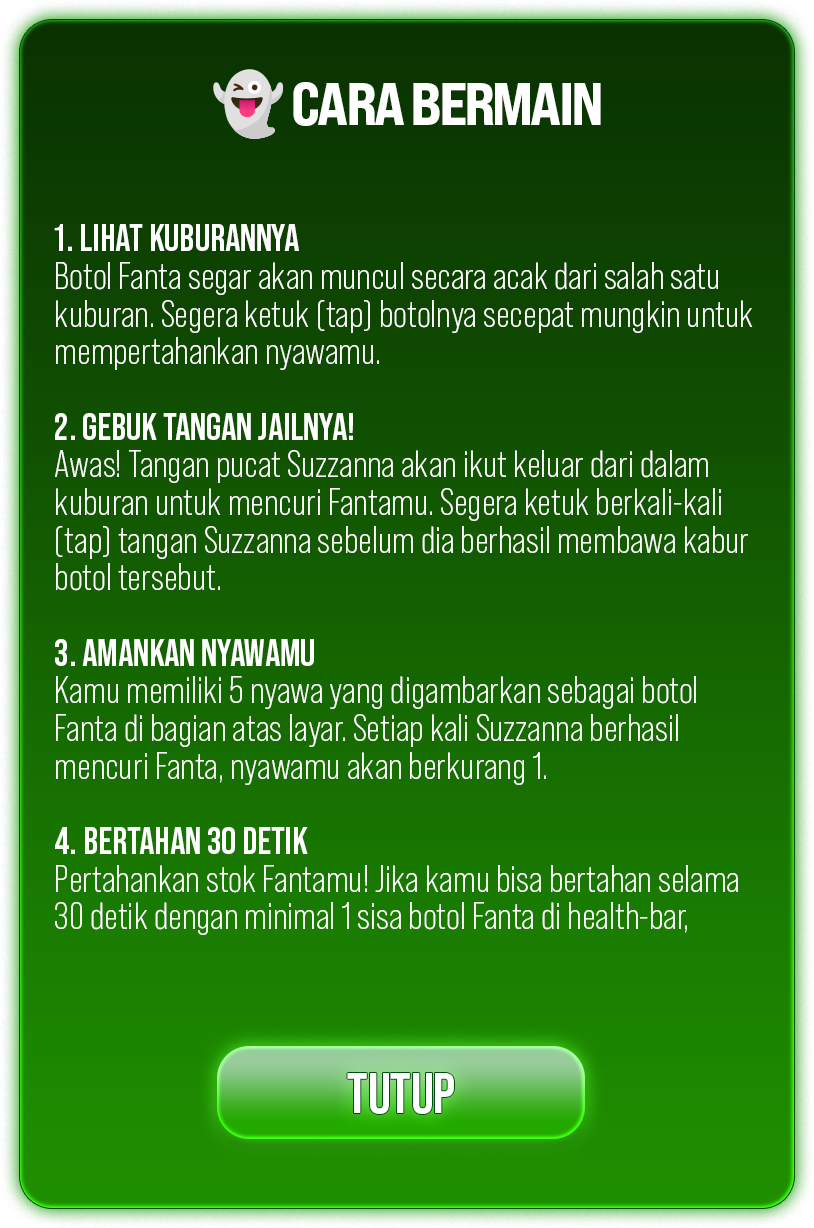
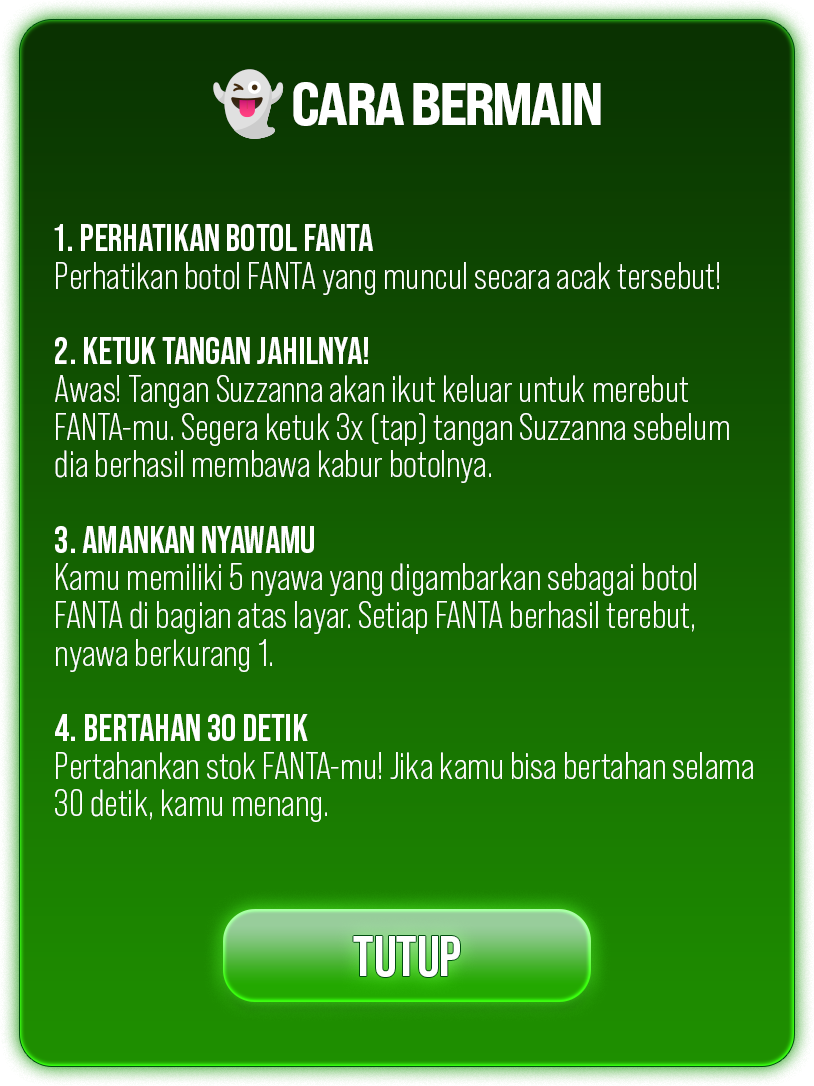
Revisi text popup Cara Bermain
Artwork baru lebih pendek (814x1086, sebelumnya 814x1228), jadi hotspot
TUTUP diukur ulang terhadap pil yang tergambar di artwork: x 223-590,
y 909-1001, plus sedikit margin tap.

diff --git a/FantaHorror/index.html b/FantaHorror/index.html
@@ -6,7 +6,7 @@
   <title>FANTA Horror Gamification - Gebuk Suzzanna, Amankan Fantamu!</title>
   <meta name="description" content="Mainkan game FANTA Horror! Lindungi botol Fanta dari cegatan tangan Suzzanna selama 30 detik untuk memenangkan voucher nonton bioskop eksklusif!">
   
-  <link rel="stylesheet" href="index.css?v=20260804-badgefix">
+  <link rel="stylesheet" href="index.css?v=20260805-carabermain">
 </head>
 <body>
 
@@ -136,7 +136,7 @@
     <!-- MODAL: CARA BERMAIN -->
     <div id="modal-cara-bermain" class="modal-overlay hidden">
       <div class="modal-cara-bermain-box">
-        <img class="cara-bermain-popup-img" src="assets/POP-UP-CARA BERMAIN.webp" alt="Cara bermain FANTA Horror Game">
+        <img class="cara-bermain-popup-img" src="assets/POP-UP-CARA BERMAIN.webp?v=20260805-revisi" alt="Cara bermain FANTA Horror Game">
         <button id="btn-close-cara-bermain" class="btn-tutup-green" aria-label="Tutup cara bermain"></button>
       </div>
     </div>

diff --git a/FantaHorror/index.css b/FantaHorror/index.css
@@ -1112,11 +1112,16 @@ body {
   font-weight: 400;
 }
 
+/*
+  Invisible hotspot over the TUTUP pill painted into the popup artwork. Measured off
+  POP-UP-CARA BERMAIN.png (814x1086): the pill sits at x 223-590, y 909-1001, and these
+  figures add a small tap margin around it. Re-measure if the artwork is replaced.
+*/
 .btn-tutup-green {
   position: absolute;
-  left: 24%;
-  bottom: 5.5%;
-  width: 52%;
+  left: 26%;
+  bottom: 7%;
+  width: 48%;
   height: 10%;
   max-width: none;
   margin: 0;
